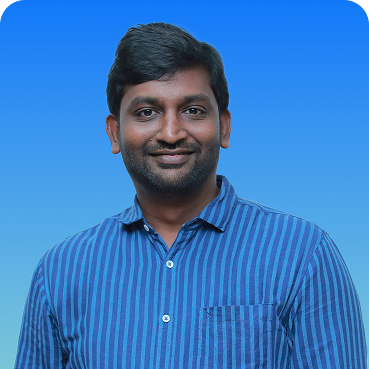
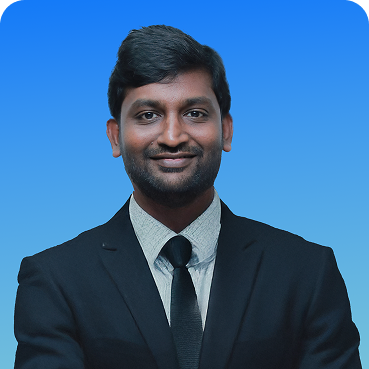
Home Page Carousel

diff --git a/src/screens/Home/HomePage.tsx b/src/screens/Home/HomePage.tsx
@@ -18,17 +18,27 @@ import { Card, CardContent } from "../../components/ui/card";
 import {
   aboutSectionData,
   companyDeliveryStepsData,
-  heroSectionData,
+  heroSectionCarouselData,
   HomePageSectionsEnum,
   ourPartners,
   startupPortfolioData,
   // testimonialsData,
   whoWeAreSectionData,
 } from "../../lib/homePageData";
-import IMAGES from "../../themes";
 import { StartupPitchDeckForm } from "../../components/ui/startupPitchDeckForm";
 import Marquee from "react-fast-marquee";
+import Slider from "react-slick";
+import "slick-carousel/slick/slick.css";
+import "slick-carousel/slick/slick-theme.css";
 
+const settings = {
+  infinite: true,
+  speed: 500,
+  slidesToShow: 1,
+  slidesToScroll: 1,
+  autoplay: true,
+  autoplaySpeed: 2000,
+};
 const Home = (): JSX.Element => {
   const [openModal, setOpenModal] = useState(false);
   const [showVideo, setShowVideo] = useState(false);
@@ -47,55 +57,69 @@ const Home = (): JSX.Element => {
   return (
     <main className="bg-custom-gradient">
       {/* Hero Section */}
-      <section className="relative bg-heroBackground px-4 sm:px-20 ">
-        <div className="section-container grid grid-cols-1 lg:grid-cols-2 gap-16 justify-items-center items-center pt-8 sm:pt-16 pb-20 ">
-          <div className="space-y-8  text-start md:w-[535px] z-10">
-            <h1 className="text-5xl sm:text-6xl md:text-8xl font-bold bg-gradient-to-b from-[#52E5DC] via-[#FF66FF] to-[#7D67FF] bg-clip-text text-transparent leading-none">
-              {heroSectionData.title}
-            </h1>
-            <p className="text-lg sm:text-xl text-ParaGrey z-10">
-              {heroSectionData.description}
-            </p>
-            <Button
-              className="bg-BrandPurple text-white px-8 py-6 rounded-[10px] flex items-center gap-4"
-              onClick={handleOpenModal}
-            >
-              {heroSectionData.buttonText}
-              <ArrowRight className="h-6 w-6" />
-            </Button>
-          </div>
+      <section className="relative bg-heroBackground px-8 sm:px-20 ">
+        <div className="section-container pt-8 sm:pt-16 pb-20">
+          <Slider {...settings}>
+            {heroSectionCarouselData?.map((carousel, index) => (
+              <div
+                key={index}
+                className="!flex !flex-col lg:!flex-row gap-16  justify-between items-center"
+              >
+                <div className="space-y-8  text-start md:w-[535px]">
+                  <h1 className="text-5xl sm:text-6xl md:text-8xl font-bold bg-gradient-to-b from-[#52E5DC] via-[#FF66FF] to-[#7D67FF] bg-clip-text text-transparent leading-none">
+                    {carousel.title}
+                  </h1>
+                  <p className="text-lg sm:text-xl text-ParaGrey">
+                    {carousel.description}
+                  </p>
+                  <Button
+                    className="bg-BrandPurple text-white px-8 py-6 rounded-[10px] flex items-center gap-4 z-10 ml-5 sm:ml-1"
+                    onClick={handleOpenModal}
+                  >
+                    {carousel.buttonText}
+                    <ArrowRight className="h-6 w-6" />
+                  </Button>
+                </div>
+                <div className="!mx-auto relative hidden md:block">
+                  <img
+                    src={carousel.heroImageUrl}
+                    alt={carousel.title}
+                    className={`w-[300px] sm:w-[371px] lg:w-[400px] object-cover relative ${carousel?.className}`}
+                  />
+                  {carousel.index === 1 ? (
+                    <div>
+                      <Card className="absolute -left-4 -top-10 sm:top-6 sm:-left-24 lg:top-10 lg:-left-32 md:top-6 md:-left-32  xl:top-18 xl:-left-32 bg-[#90dbf6] border-8 border-white shadow-lg rounded-[30px] w-20 h-20 md:w-28 md:h-28 ">
+                        <CardContent className="p-1 md:p-5">
+                          <DollarSignIcon className="h-14 w-14 text-white" />
+                        </CardContent>
+                      </Card>
 
-          <div className="relative z-10">
-            <img
-              src={heroSectionData.heroImageUrl}
-              alt="Hero"
-              className="w-[300px] sm:w-[371px] lg:w-[400px] object-cover"
-            />
+                      <Card className="absolute -bottom-10 -left-4 sm:-bottom-10 sm:-left-10 lg:-bottom-10 lg:-left-10 md:-bottom-16 md:-left-14 xl:-bottom-5 xl:-left-10 bg-[#f8a8fe] border-8 border-white shadow-lg rounded-[30px] w-26 h-26 md:w-36 md:h-36">
+                        <CardContent className="p-1 md:p-5">
+                          <RocketIcon className="h-14 w-14 sm:h-20 sm:w-20 text-white" />
+                        </CardContent>
+                      </Card>
 
-            <Card className="absolute -left-4 -top-10 sm:top-6 sm:-left-24 lg:top-10 lg:-left-32 md:top-6 md:-left-32  xl:top-18 xl:-left-32 bg-[#90dbf6] border-8 border-white shadow-lg rounded-[30px] w-20 h-20 md:w-28 md:h-28 ">
-              <CardContent className="p-1 md:p-5">
-                <DollarSignIcon className="h-14 w-14 text-white" />
-              </CardContent>
-            </Card>
+                      <Card className="absolute -top-10 -right-3 sm:-top-10 sm:-right-10 lg:-top-12 lg:-right-10 md:-top-12 md:-right-20 xl:-right-0 xl:-top-10 bg-[#72dfb3] border-8 border-white shadow-lg rounded-[30px] w-26 h-26 md:w-36 md:h-36">
+                        <CardContent className="p-1 md:p-5">
+                          <LeafIcon className="h-14 w-14 sm:h-20 sm:w-20 text-white" />
+                        </CardContent>
+                      </Card>
+                    </div>
+                  ) : null}
 
-            <Card className="absolute -bottom-10 -left-4 sm:-bottom-10 sm:-left-10 lg:-bottom-10 lg:-left-10 md:-bottom-16 md:-left-14 xl:-bottom-5 xl:-left-10 bg-[#f8a8fe] border-8 border-white shadow-lg rounded-[30px] w-26 h-26 md:w-36 md:h-36">
-              <CardContent className="p-1 md:p-5">
-                <RocketIcon className="h-14 w-14 sm:h-20 sm:w-20 text-white" />
-              </CardContent>
-            </Card>
-
-            <Card className="absolute -top-10 -right-3 sm:-top-10 sm:-right-10 lg:-top-12 lg:-right-10 md:-top-12 md:-right-20 xl:-right-0 xl:-top-10 bg-[#72dfb3] border-8 border-white shadow-lg rounded-[30px] w-26 h-26 md:w-36 md:h-36">
-              <CardContent className="p-1 md:p-5">
-                <LeafIcon className="h-14 w-14 sm:h-20 sm:w-20 text-white" />
-              </CardContent>
-            </Card>
-          </div>
+                  {carousel?.imageStand ? (
+                    <img
+                      src={carousel.imageStand}
+                      alt={carousel.title}
+                      className="w-[280px] sm:w-[300px] absolute -bottom-2"
+                    />
+                  ) : null}
+                </div>
+              </div>
+            ))}
+          </Slider>
         </div>
-        <img
-          src={IMAGES.homeHeroSectionBackground}
-          alt="Hero-Background"
-          className="object-cover w-full h-full absolute inset-0 opacity-40"
-        />
       </section>
 
       <div

diff --git a/src/lib/homePageData.ts b/src/lib/homePageData.ts
@@ -1,10 +1,12 @@
 import IMAGES from "../themes";
 interface HeroDataType {
+  index?: number;
   title?: string;
   description?: string;
   buttonText?: string;
   heroImageUrl?: string;
   imageStand?: string;
+  className?: string;
 }
 
 export enum HomePageSectionsEnum {
@@ -17,6 +19,7 @@ export enum HomePageSectionsEnum {
 
 export const heroSectionCarouselData: HeroDataType[] = [
   {
+    index: 1,
     title: "Crafting the future of Startups.",
     description: `At NuStartz, we turn your startup vision into reality. From building high-performing teams to developing market-ready products, we provide the resources and expertise you need to grow and succeed. Let’s craft your success story together.`,
     buttonText: "GET IN TOUCH",
@@ -29,6 +32,7 @@ export const heroSectionCarouselData: HeroDataType[] = [
     buttonText: "GET IN TOUCH",
     heroImageUrl: `${IMAGES.startupAward}`,
     imageStand: `${IMAGES.startupAwardStand}`,
+    className: "mb-20",
   },
 ];
 

diff --git a/src/lib/nustartzEventsData.ts b/src/lib/nustartzEventsData.ts
@@ -21,7 +21,7 @@ export const nuStartzEventsData: NuStartzEventsDataType[] = [
     ],
     description: [
       "NuStartz offers more than just a workspace. The facility includes a modern cafeteria, spacious lounge areas, and collaborative zones, providing the perfect balance of productivity and relaxation for teams of varied capacities. With private offices, brand-friendly spaces, and premium amenities, our new office is ideal for startups and scaling businesses looking for a professional yet inspiring environment that’s truly their own.",
-      "This new NuStartz facility reaffirms our commitment to offering exclusive, client-centered office solutions that empower teams to grow, collaborate, and succeed in comfort and style."
+      "This new NuStartz facility reaffirms our commitment to offering exclusive, client-centered office solutions that empower teams to grow, collaborate, and succeed in comfort and style.",
     ],
   },
   {

diff --git a/src/themes/index.ts b/src/themes/index.ts
@@ -42,6 +42,7 @@ const IMAGES = {
   leader2: require("../assets/Leader2.png"),
   leader3: require("../assets/Leader3.png"),
   leader4: require("../assets/Leader4.png"),
+  leader5: require("../assets/Leader5.png"),
   pauseIcon: require("../assets/PauseIcon.png"),
   solutionImage1: require("../assets/SolutionImage1.png"),
   solutionImage2: require("../assets/SolutionImage2.png"),

diff --git a/src/screens/Header/Header.tsx b/src/screens/Header/Header.tsx
@@ -20,7 +20,7 @@ const Header = () => {
   };
 
   return (
-    <header className="w-full bg-white shadow-md z-50">
+    <header className="w-full bg-white shadow-md z-50 relative">
       <div className="container flex items-center justify-between py-4 px-4 sm:px-10 max-w-[1200px] m-auto">
         <img
           src={IMAGES.nuStartzLogo}
